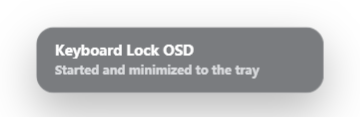
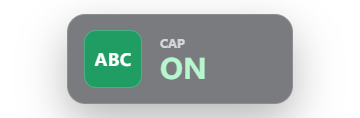
docs: update caps lock overlay screenshots

diff --git a/README.md b/README.md
@@ -10,9 +10,9 @@ Keyboard Lock OSD is a lightweight Windows utility that shows a compact on-scree
 
 ## Screenshots
 
-### OSD Overlay
+### Caps Lock OSD Overlay
 
-![Keyboard Lock OSD overlay screenshot](./docs/images/en/overlay.png)
+![Keyboard Lock OSD Caps Lock overlay screenshot](./docs/images/en/overlay.png)
 
 ### Settings Window
 